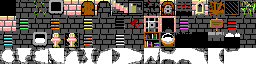
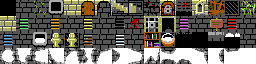
Tiles: city water, warm stone, marble statues, trap inks, caves objects
- City water: deep maroon with rose-brown ripples (was the floor's grey with pink streaks)
- Prison/city beige and tan stone: khaki instead of pink (walls, stairs, door frames, wells, statues)
- City statues: grey shading instead of rose, so they read as cream marble, not a pale figure
- Traps: one ink per kind (fire orange, paralytic yellow, lightning sky blue, gripping rust) in all regions
- Caves: sign, pedestal, lock, pot and ladders lifted off the lifted floor grey they merged into

Rules live in tools/tile_rules.py (run by convert_art.py and convert_regions.py); hidden traps still match EMPTY.

Claude-Session: https://claude.ai/code/session_01K5kUdBQ9AshjcB3ev2evJa

diff --git a/watch/tools/convert_regions.py b/watch/tools/convert_regions.py
@@ -5,6 +5,7 @@ sys.path.insert(0, os.path.dirname(os.path.abspath(__file__)))
 from paths import PD_SRC, PD_ASSETS  # upstream Pixel Dungeon (third_party submodule)
 sys.path.insert(0, os.path.dirname(__file__))
 import convert_lib as cl
+import tile_rules
 from PIL import Image
 SRC = PD_ASSETS
 OUT = os.path.join(os.path.dirname(os.path.abspath(__file__)), "..", "resources", "images")
@@ -23,6 +24,18 @@ for r in range(1, 5):
                 lifted = [min(255, int(v * 1.45)) for v in (R, G, B)]
                 px[x, y] = cl.near(tuple(max(0, min(255, (v - 45) * 255 / 165)) for v in lifted)) + (254,)
     tp = cl.pebbleize(t, cl.TILES)
+    src0 = Image.open(os.path.join(SRC, f"tiles{r}.png")).convert("RGBA"); sp0 = src0.load(); tp0 = tp.load()
+    tile_rules.warm_stone(sp0, tp0); tile_rules.marble_statues(sp0, tp0); tile_rules.trap_inks(sp0, tp0)
+    if r == 2:   # 0.60: the caves' floor was lifted from near black to (85,85,85), and the mid tones of what stands on it
+        # (the sign's board, the pedestal's plate, the ladders, the lock) snapped to that same grey and vanished into it.
+        # Lifted a step: khaki where the source is warm (wood), light grey where it is not. Walls keep their mortar
+        for y in range(64):
+            for x in range(256):
+                c = (y // 16) * 16 + x // 16
+                if c in (4, 12, 16, 43, 44, 45, 46) or c >= 48: continue
+                R, G, B, A = sp0[x, y]
+                if A == 255 and tp0[x, y][:3] == (85, 85, 85) and max(R, G, B) >= (72 if c == 11 else 90):
+                    tp0[x, y] = ((170, 170, 85) if R - B >= 20 else (170, 170, 170)) + (255,)
     if r == 2:   # 0.56 (owner: "the DM-300 room is just flat grey"): the caves' floor gets grit back. PD's floor is three close
         # shades; the darkest, where it clusters, becomes black on every other pixel (a checker), so the stone reads rough, not flat
         src = Image.open(os.path.join(SRC, f"tiles{r}.png")).convert("RGB"); sp = src.load(); tpp = tp.load()
@@ -81,6 +94,13 @@ for r in range(1, 5):
         for y in range(32):
             for x in range(32): op[x, y] = ((85, 170, 170) if sum(wp[x, y][:3]) > t1 else (0, 85, 85)) + (255,)
         out.save(os.path.join(OUT, f"water_{REGIONS[r]}.png")); print(REGIONS[r], "water: teal"); continue
+    if r == 3:   # 0.60: the city's dark red-brown water lifted onto the palette came out grey (85,85,85), the floor's own
+        # grey, with pink streaks: the pools vanished into the floor. Deep maroon, its brightest ripples (PD's lightest
+        # tone, about 8%) in rose-brown
+        ls = sorted(sum(wp[x, y][:3]) for y in range(32) for x in range(32)); t1 = ls[len(ls) * 85 // 100]
+        for y in range(32):
+            for x in range(32): op[x, y] = ((170, 85, 85) if sum(wp[x, y][:3]) > t1 else (85, 0, 0)) + (255,)
+        out.save(os.path.join(OUT, f"water_{REGIONS[r]}.png")); print(REGIONS[r], "water: maroon"); continue
     if r == 4:   # 0.56 (owner: "the lava is too featureless"): five heat levels, a dark crust to bubbling yellow
         ls = sorted(sum(wp[x, y][:3]) for y in range(32) for x in range(32))
         t1, t2, t3 = (ls[int(len(ls) * p)] for p in (0.35, 0.68, 0.82))

diff --git a/watch/tools/tile_rules.py b/watch/tools/tile_rules.py
@@ -1,0 +1,51 @@
+"""0.60: hue fixes for the dungeon tile sheets, run on the Pebble sheet right after pebbleize (convert_art.py: sewers,
+convert_regions.py: the other regions). Each rule reads the source pixel, so cells with the same source (EMPTY and the
+hidden traps drawn as EMPTY) still come out identical."""
+import colorsys
+
+STATUES = (35, 36)
+TRAP_INKS = {   # visible trap -> (hue range in degrees, min saturation, Pebble colour): one clear colour per kind of trap
+    19: ((15, 45), 0.6, (255, 170, 0)),    # fire: orange (its shaded half snapped to (255, 85, 0), as red as the alarm trap's)
+    21: ((30, 70), 0.4, (255, 255, 85)),   # paralytic: yellow (the sewers' half came out orange, like fire)
+    32: ((180, 215), 0.4, (85, 170, 255)), # lightning: PD's sky blue, not the pale cyan of the summoning trap
+    37: ((10, 40), 0.3, (170, 85, 0)),     # gripping: rusty brown teeth and grey, not the fire trap's peach
+}
+
+
+def _hsv(c):
+    h, s, v = colorsys.rgb_to_hsv(*(x / 255 for x in c[:3])); return h * 360, s, v
+
+
+def _cells(src, w):
+    for y in range(64):
+        for x in range(w):
+            yield (y // 16) * 16 + x // 16, x, y
+
+
+def warm_stone(src, tp, w=256):
+    """Light tan and beige stone (the prison's and city's walls, door frames, stairs, statues, wells) snapped to pink
+    (255,170,170): the luminance-weighted nearest colour has no cream between (255,255,170) and pink. Khaki (170,170,85)
+    keeps the hue (on the panel (174,163,130), close to PD's (180,168,144))."""
+    for c, x, y in _cells(src, w):
+        r, g, b, a = src[x, y]
+        if a == 255 and tp[x, y][:3] == (255, 170, 170) and r - b >= 15 and g - b >= 6: tp[x, y] = (170, 170, 85, 255)
+
+
+def marble_statues(src, tp, w=256):
+    """The statues' soft grey-mauve shading (the city's (135,100,102)) saturated to rose (170,85,85): with the pink it
+    made a pale, flesh-toned figure. Light grey reads as carved stone."""
+    for c, x, y in _cells(src, w):
+        if c not in STATUES: continue
+        r, g, b, a = src[x, y]
+        if a == 255 and tp[x, y][:3] == (170, 85, 85) and max(r, g, b) - min(r, g, b) <= 45 and abs(g - b) < 8:
+            tp[x, y] = (170, 170, 170, 255)
+
+
+def trap_inks(src, tp, w=256):
+    """A visible trap's coloured marks in one colour per kind, so fire/alarm, paralytic/fire and lightning/summoning
+    stay apart on the panel. Only pixels that differ from the plain floor (cell 1) are touched."""
+    for c, x, y in _cells(src, w):
+        if c not in TRAP_INKS or not src[x, y][3] or src[x, y] == src[16 + x % 16, y % 16]: continue
+        (h0, h1), smin, col = TRAP_INKS[c]
+        h, s, v = _hsv(src[x, y])
+        if s > smin and h0 <= h <= h1: tp[x, y] = col + (255,)

diff --git a/watch/tools/convert_art.py b/watch/tools/convert_art.py
@@ -86,7 +86,11 @@ for y in range(t0.height):
         if a and g - max(r, b) > 25:   # grass: keep 0.5.1's look exactly (levels 45-210, no gamma)
             lifted = [min(255, int(v * 1.45)) for v in (r, g, b)]
             tp[x, y] = near(tuple(max(0, min(255, (v - 45) * 255 / 165)) for v in lifted)) + (254,)
-total += save(pebbleize(t0, TILES), "tiles_sewers.png")
+ts = pebbleize(t0, TILES)
+sys.path.insert(0, os.path.dirname(os.path.abspath(__file__)))
+import tile_rules   # 0.60: one clear colour per kind of trap (fire was as red as the alarm trap, paralytic as orange as fire)
+tile_rules.trap_inks(crop("tiles0.png", (0, 0, 256, 64)).convert("RGBA").load(), ts.load())
+total += save(ts, "tiles_sewers.png")
 
 # Sewer water: PD scrolls a translucent texture over a base color; bake it opaque.
 water = Image.new("RGBA", (32, 32), (40, 70, 66, 255))
